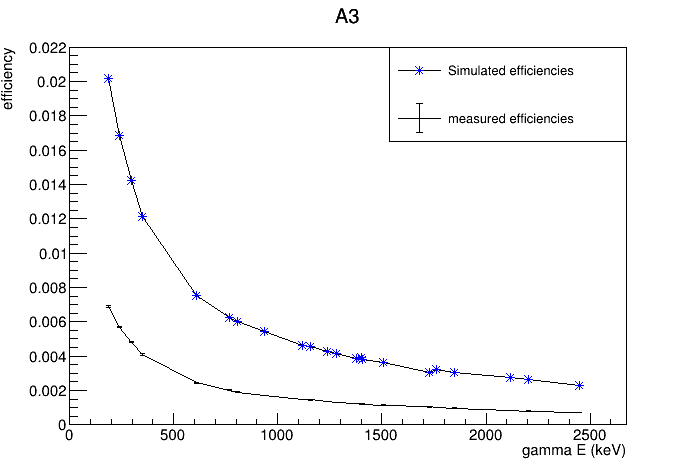
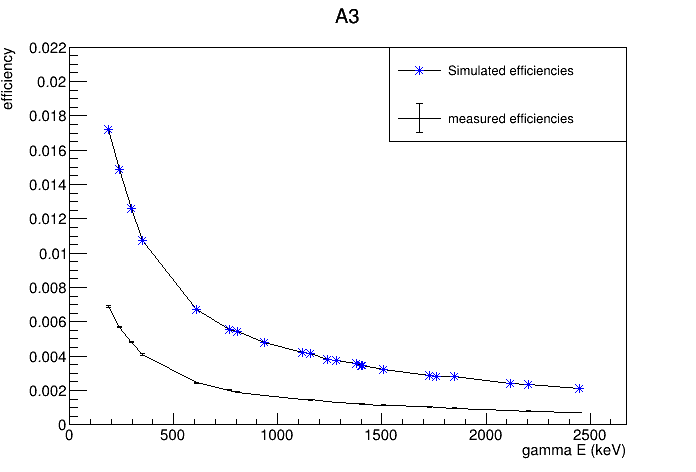
Marvin Clover parameters implementation

diff --git a/src/detectors/HPGeClover.cc b/src/detectors/HPGeClover.cc
@@ -45,11 +45,11 @@ HPGe::Clover::Clover(const _spec& spec, const std::string& name)
     if (fSpec.id == "CloziB") {
         _cloverLeaf B0(baseLeaf);
         B0.name = "B0";
-        B0.allayerThickness = 1.5 * mm;
-        B0.crystalRadius = 28.75 * mm;
+        B0.allayerThickness = 1.4 * mm;
+        B0.crystalRadius = 23.6 * mm;
         B0.crystalLength = 59.5 * mm;
         B0.deadlayerThickness = 0.0003 * mm;
-        B0.distanceToEndcap = 16.0 * mm;
+        B0.distanceToEndcap = 15.0 * mm;
         fCloverSpec.crystals.push_back(B0);
 
         _cloverLeaf B1(baseLeaf);
@@ -63,37 +63,37 @@ HPGe::Clover::Clover(const _spec& spec, const std::string& name)
 
         _cloverLeaf B2(baseLeaf);
         B2.name = "B2";
-        B2.allayerThickness = 1.2 * mm; // 1.5
-        B2.crystalRadius = 28.55 * mm;
+        B2.allayerThickness = 0.5 * mm; // 1.5
+        B2.crystalRadius = 25.00 * mm;
         B2.crystalLength = 58.7 * mm;
         B2.deadlayerThickness = 0.0003 * mm;
-        B2.distanceToEndcap = 16.0 * mm;
+        B2.distanceToEndcap = 10.0 * mm;
         fCloverSpec.crystals.push_back(B2);
 
         _cloverLeaf B3(baseLeaf);
         B3.name = "B3";
-        B3.allayerThickness = 1.1 * mm; // 1.5
-        B3.crystalRadius = 28.60 * mm;
+        B3.allayerThickness = 2.9 * mm; // 1.5
+        B3.crystalRadius = 23.3 * mm;
         B3.crystalLength = 57.2 * mm;
         B3.deadlayerThickness = 0.0003 * mm;
-        B3.distanceToEndcap = 15.0 * mm;
+        B3.distanceToEndcap = 4.1 * mm;
         fCloverSpec.crystals.push_back(B3);
     }
 
     if (fSpec.id == "CloziA") {
         _cloverLeaf A0(baseLeaf);
         A0.name = "A0";
-        A0.allayerThickness = 0.8 * mm;
-        A0.crystalRadius = 28.40 * mm;
+        A0.allayerThickness = 2.1 * mm;
+        A0.crystalRadius = 26.4 * mm;
         A0.crystalLength = 56.8 * mm;
         A0.deadlayerThickness = 0.0003 * mm;
-        A0.distanceToEndcap = 17.0 * mm;
+        A0.distanceToEndcap = 14.5 * mm;
         fCloverSpec.crystals.push_back(A0);
 
         _cloverLeaf A1(baseLeaf);
         A1.name = "A1";
-        A1.allayerThickness = 0.8 * mm;
-        A1.crystalRadius = 28.50 * mm;
+        A1.allayerThickness = 1.6 * mm;
+        A1.crystalRadius = 26.5 * mm;
         A1.crystalLength = 59.0 * mm;
         A1.deadlayerThickness = 0.0003 * mm;
         A1.distanceToEndcap = 13.0 * mm;
@@ -101,20 +101,20 @@ HPGe::Clover::Clover(const _spec& spec, const std::string& name)
 
         _cloverLeaf A2(baseLeaf);
         A2.name = "A2";
-        A2.allayerThickness = 0.8 * mm;
-        A2.crystalRadius = 28.05 * mm;
+        A2.allayerThickness = 2.0 * mm;
+        A2.crystalRadius = 25.0 * mm;
         A2.crystalLength = 56.0 * mm;
         A2.deadlayerThickness = 0.0003 * mm;
-        A2.distanceToEndcap = 18.0 * mm;
+        A2.distanceToEndcap = 5.0 * mm;
         fCloverSpec.crystals.push_back(A2);
 
         _cloverLeaf A3(baseLeaf);
         A3.name = "A3";
-        A3.allayerThickness = 0.8 * mm;
-        A3.crystalRadius = 28.40 * mm;
+        A3.allayerThickness = 1.55 * mm;
+        A3.crystalRadius = 27.0 * mm;
         A3.crystalLength = 56.6 * mm;
         A3.deadlayerThickness = 0.0003 * mm;
-        A3.distanceToEndcap = 20.0 * mm;
+        A3.distanceToEndcap = 14.6 * mm;
         fCloverSpec.crystals.push_back(A3);
     }
 
